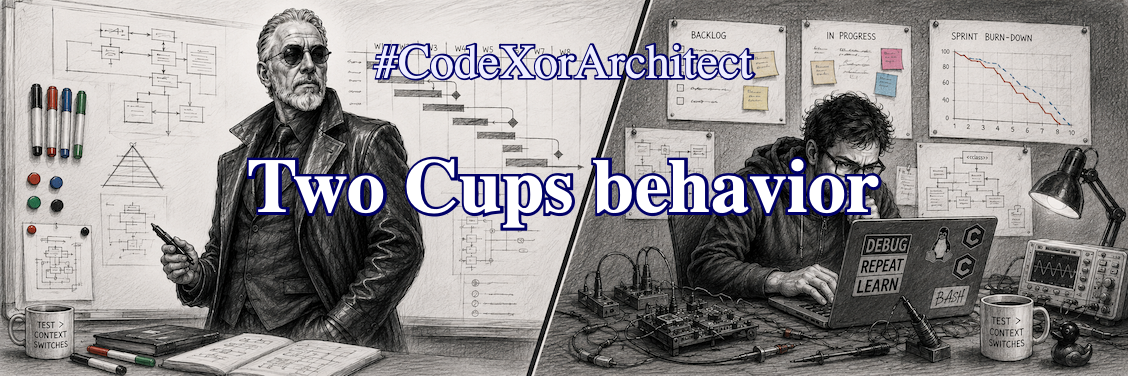
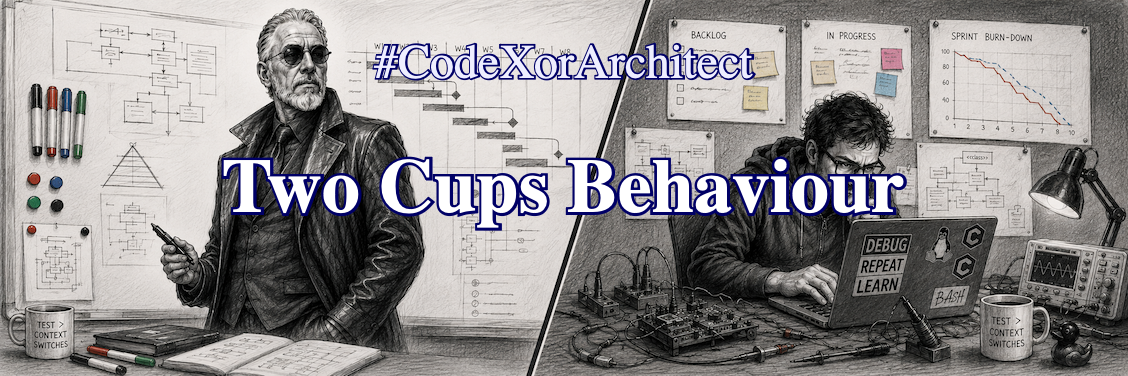
CodeXorArchitect::TwoCupsBehavior almost in final draft

Changed region(s): [[0.1862, 0.4096, 0.8067, 0.6144]]

diff --git a/SystemEngineering/blogs/CodeXorArchitect/DRAFTS/TwoCupsBehaviour.rst b/SystemEngineering/blogs/CodeXorArchitect/DRAFTS/TwoCupsBehaviour.rst
@@ -1,0 +1,60 @@
+.. Copyright (C) ALbert Mietus, 2026
+
+.. image:: images/TwoCupsBehavior.png
+   :width: 100%
+
+
+Two Cups Behaviour
+==================
+
+.. post:: 
+   :tags: CodeXorArchitect
+   :category: LinkedIn-Post
+
+   :reading-time:	ToDo
+   :LinkedIn: 		ToDo
+
+   I always wonder why the *Ultimo Superior Brewmaster* luxury coffee machines only discover they are low on water after
+   brewing the first shot when the double-cup option is selected. Its water sensor can differentiate between espresso
+   and regular coffee, but somehow it forgets that two cups need more water too.
+   |BR|
+   What a stupid behaviour!
+
+Without a doubt, it's a software flaw ---almost all *misbehaviour* is software-related. Still, when I ask my development
+team (or actually: my training class), all TDD tests pass. The problem isn't in the code, however. It's about how we
+deal with constantly changing features. When the water sensor story is 'done' long before the "double" option was
+requested, we tend to implement it; including some (new) test.
+|BR|
+Both features will work ---nobody asked for the combination.
+
+Unlike in the old days ---when architecture and design was finished before coding started--- we, nowadays, do all phases
+concurrently in each sprint. But we tend to forget to design the product as a whole.
+|BR|
+TDD, when applied correctly defines and validates technical parts that are needed for the device. It proves the code is
+correct, not that we build the right system.
+
+How can we solve this unintentional behaviour? That is simple: describe it. Not only what we need, but also what we
+dislike.  "*Given two cups of coffee are selected, and there is enough water, then both cups are made in one go*", and
+"When the water level is low, ask the user to fill the tank before starting to brew".
+|BR|
+A BDD expert can phrase it more formally. But even those informal 'needs' will drive the engineers in the right direction!
+
+
+
+
+
+Architecture isn't just technology; it’s about solutions that make the machinery work.
+
+|BR|
+
+
+
+
+
+#CodeXorArchitect -- Your #TechFluencer
+
+---
+
+
+
+..  LocalWords:  TechFluencer Brewmaster  BDD TTD
